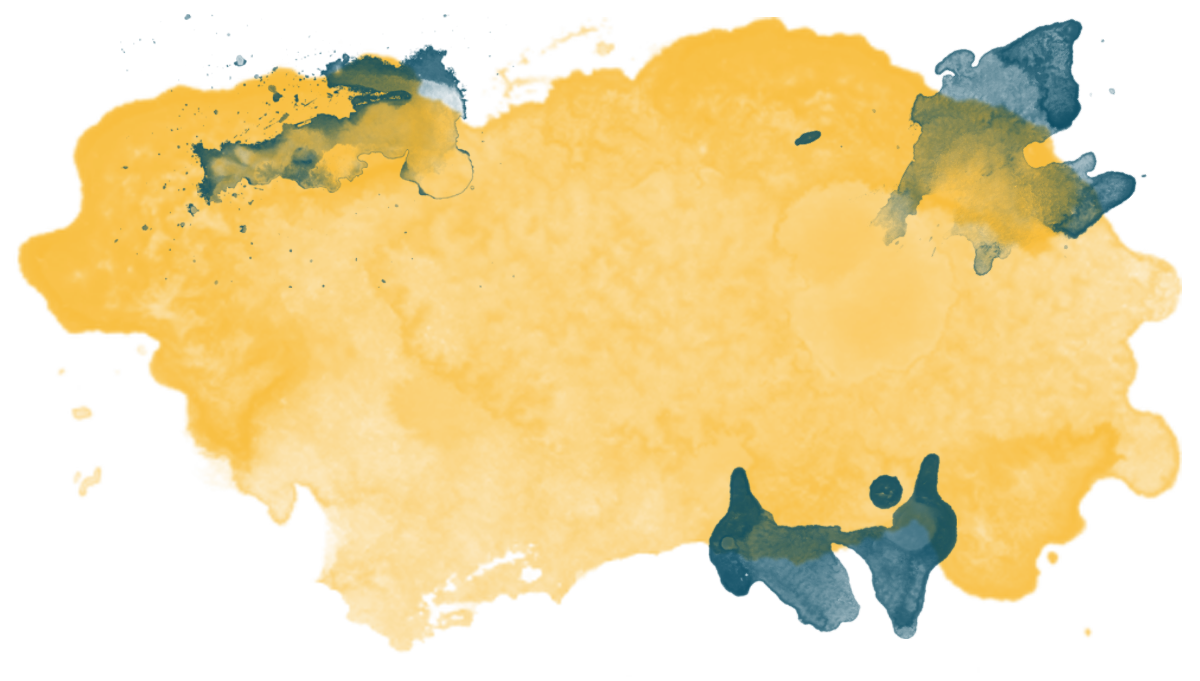
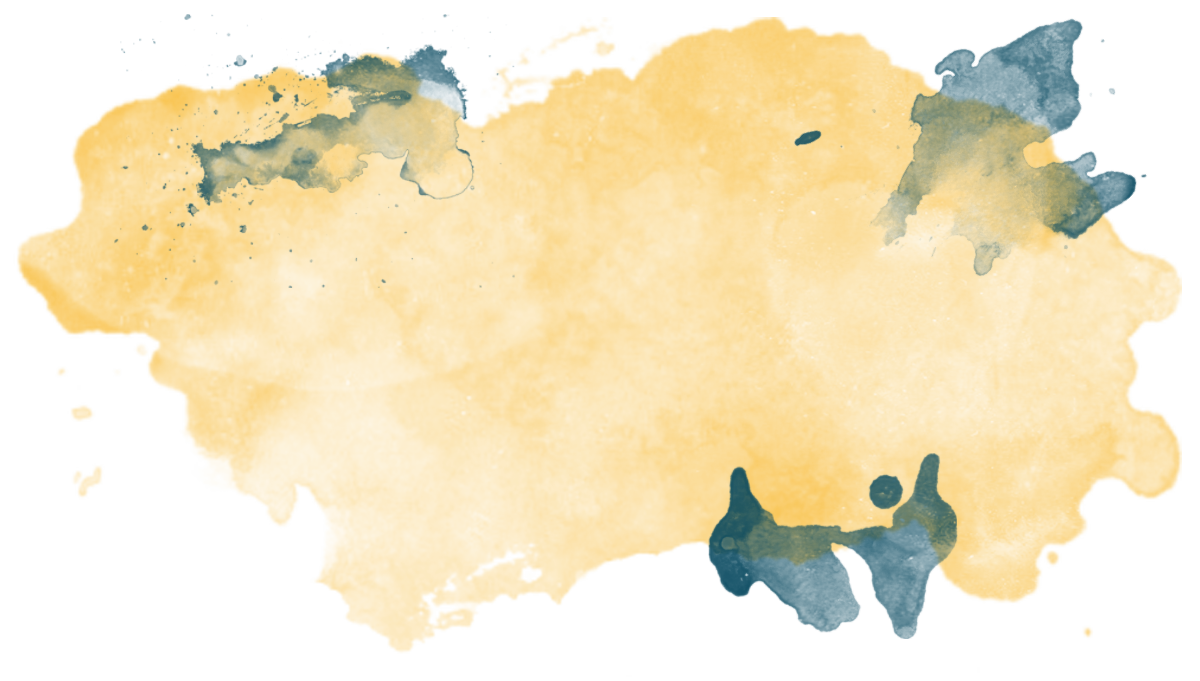
minor layout alterations

diff --git a/src/components/sections/home.module.css b/src/components/sections/home.module.css
@@ -38,10 +38,11 @@
 }
 
 .work-button {
-  margin: 1rem 2rem 0 0;
+  margin: -1rem 2rem 0 0;
   font-size: calc(1.5rem + 1vw);
   color: var(--whale-blue);
   align-self: flex-end;
+  padding: 2rem;
 }
 
 /* Media Queries */
@@ -84,5 +85,6 @@
 
   .work-button {
     margin: -3rem 1rem 0 0;
+    padding: 1.25rem;
   }
 }

diff --git a/src/styles/globals.css b/src/styles/globals.css
@@ -134,14 +134,14 @@ button::after {
 button:hover::after {
   background-image: url("/images/blue-watercolor-hover.png");
   transition: background-image opacity 1s;
-  opacity: 0.8;
+  opacity: 1;
   z-index: -1;
 }
 
 button:focus::after {
   background-image: url("/images/blue-watercolor-hover.png");
   transition: background-image opacity 1s;
-  opacity: 0.8;
+  opacity: 1;
   z-index: -1;
 }
 